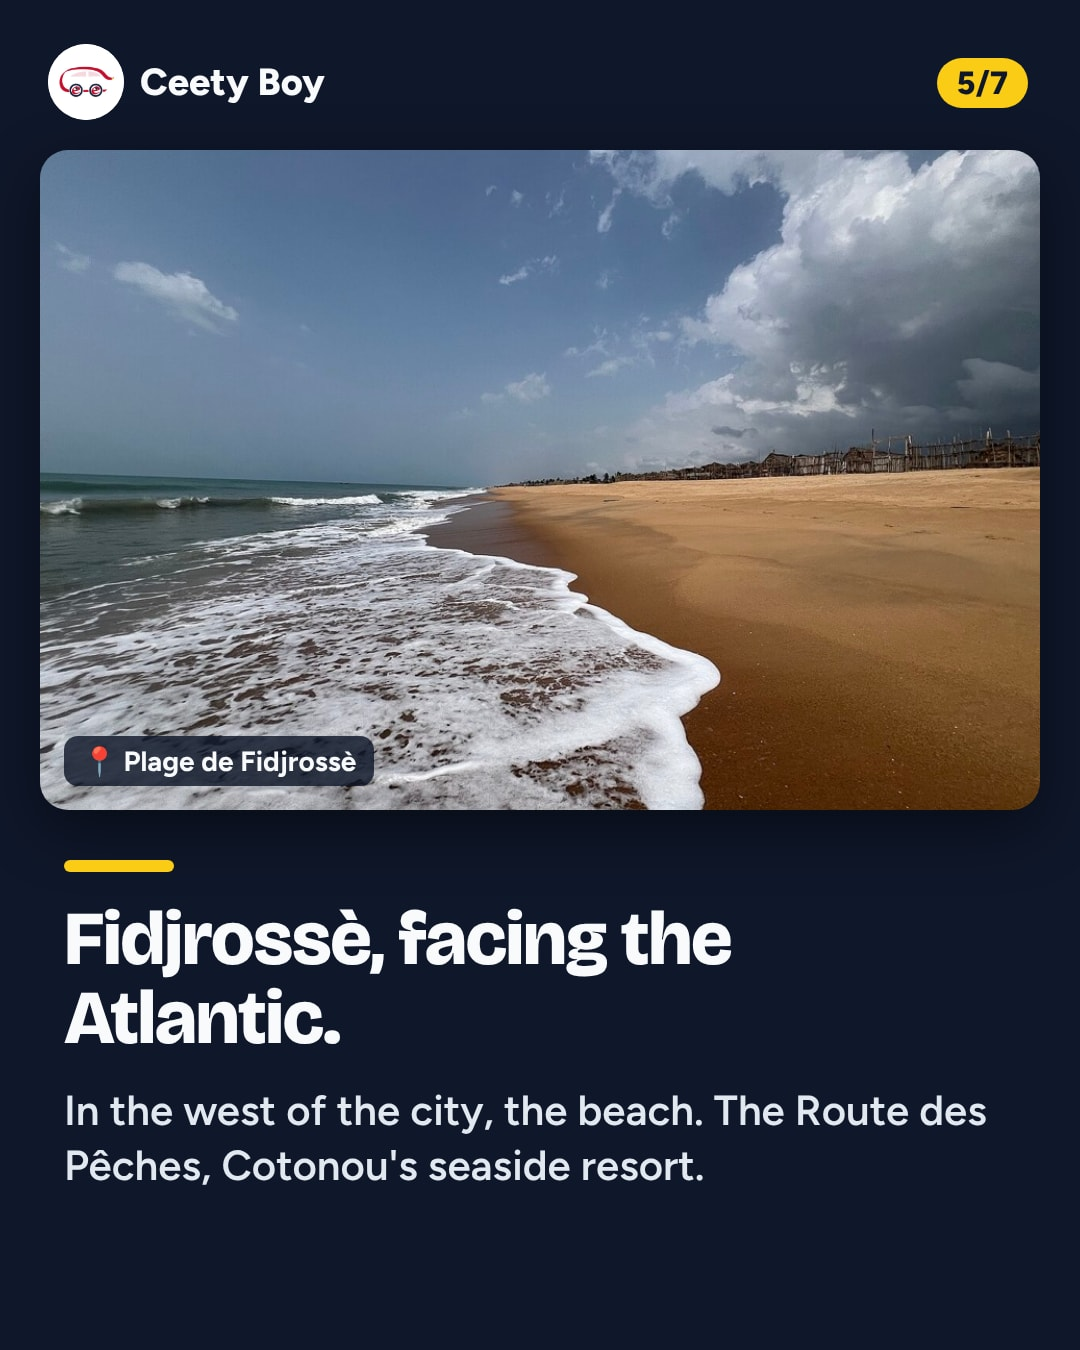
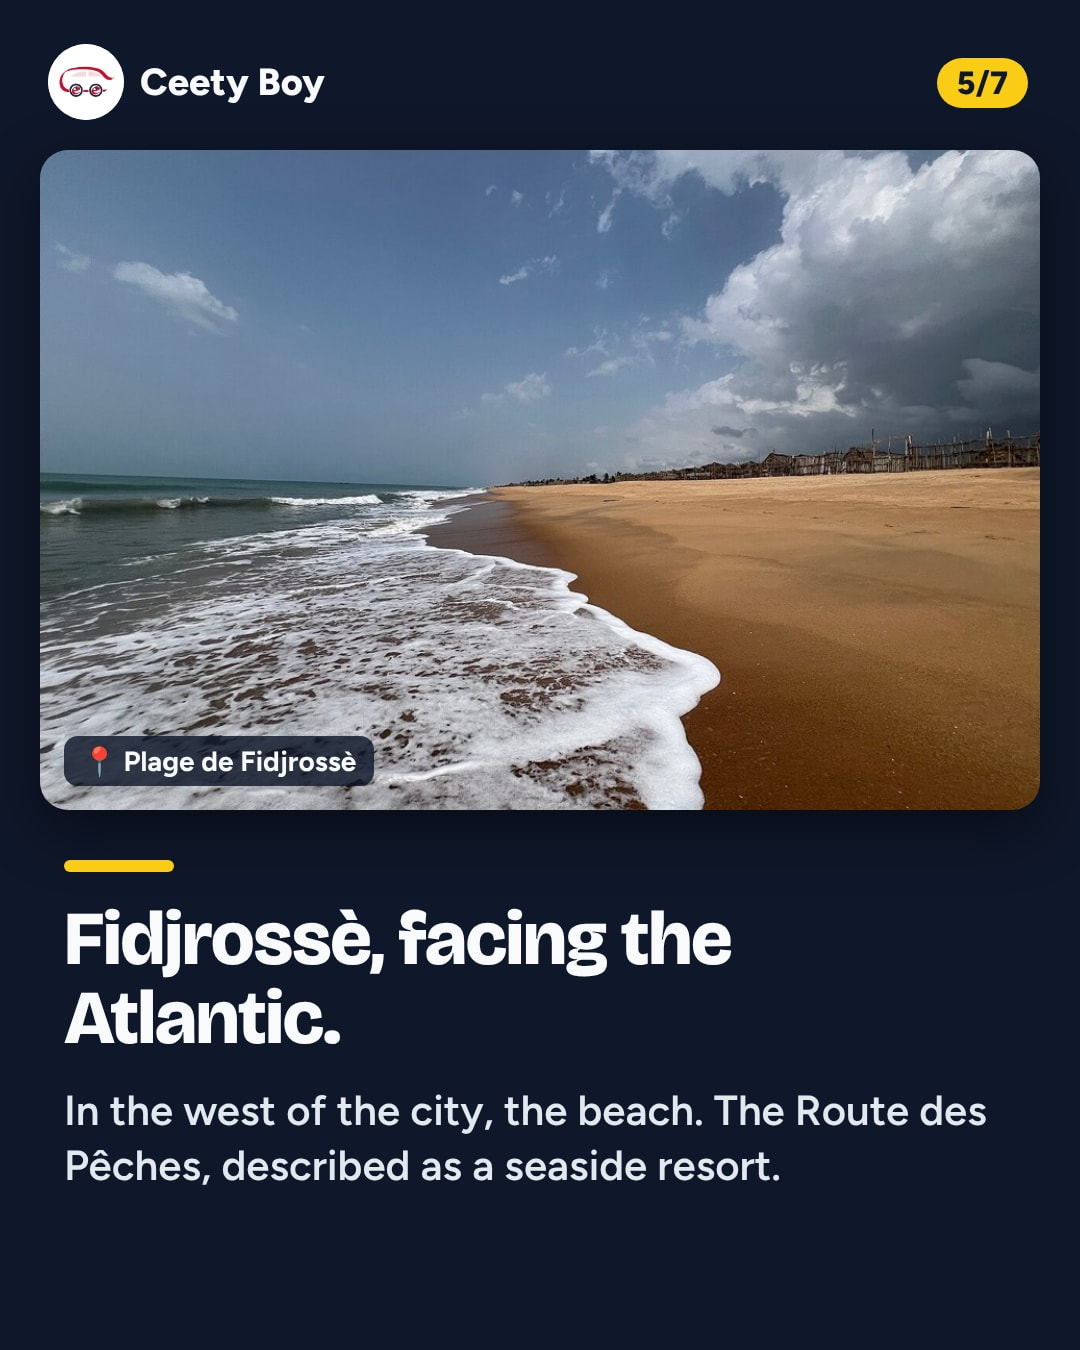
1916: reviewer fixes in POST.md (bronze-clad, épée, hedges, full credit), slides 5+7 re-rendered
Claude-Session: https://claude.ai/code/session_01LYRQA8XoVVktRA2CWq2hwB

Changed region(s): [[0.2139, 0.84, 0.7333, 0.8711]]

diff --git a/campaign/W03/D020/POST.md b/campaign/W03/D020/POST.md
@@ -8,7 +8,7 @@ Not a single-place post (five places + a guide), so it links the article page, n
 ## Caption FR
 Premier séjour à Cotonou ? 🌍
 Ici, presque personne ne donne une adresse avec un numéro de porte. On dit « après l'Étoile Rouge », « derrière Dantokpa », « vers l'Amazone ». Alors on a fait le guide qui parle en repères.
-📍 L'Amazone, 30 mètres de bronze face à l'océan
+📍 L'Amazone, 30 mètres recouverts de bronze, face à l'océan
 📍 Dantokpa, la ville dans la ville
 📍 La cathédrale aux rayures rouges et blanches
 📍 La Fondation Zinsou et l'art contemporain
@@ -24,7 +24,7 @@ Glissez 👉 puis lisez le guide sur ceetyboy.com. Envoyez-le à quelqu'un qui a
 ## Caption EN
 First time in Cotonou? 🌍
 Here, almost nobody gives an address with a door number. People say “after the Étoile Rouge”, “behind Dantokpa”, “near the Amazone”. So we made the guide that speaks in landmarks.
-📍 The Amazon, 30 metres of bronze facing the ocean
+📍 The Amazone, 30 metres clad in bronze, facing the ocean
 📍 Dantokpa, a city within the city
 📍 The red-and-white striped cathedral
 📍 Fondation Zinsou and contemporary art
@@ -48,25 +48,25 @@ EN: Which Cotonou place do you show first to someone who just arrived? 👇 The 
 
 ## Alt text FR / EN
 FR (one per slide):
-1. Le monument de l'Amazone, statue de bronze d'une guerrière avec un fusil et un sabre, sur fond de ciel. Titre : « Premier séjour à Cotonou ? », et « 5 lieux à voir, glissez ».
+1. Le monument de l'Amazone, statue recouverte de bronze d'une guerrière avec un fusil et une épée, sur fond de ciel. Titre : « Premier séjour à Cotonou ? », et « 5 lieux à voir, glissez ».
 2. Le Marché Dantokpa et son quartier vus d'en haut, dans la ville 3D de Ceety Boy. Texte : « Dantokpa, la ville dans la ville. Présenté comme le plus grand marché à ciel ouvert d'Afrique de l'Ouest, au bord de la lagune. »
 3. La façade rayée rouge et blanc de la cathédrale Notre-Dame-de-Miséricorde. Texte : « La cathédrale aux rayures. Près de l'Ancien Pont, ses murs de céramique en bandes rouges et blanches se voient de loin. »
 4. Le bâtiment blanc de la Fondation Zinsou. Texte : « L'art contemporain, ici. Créée en 2005, la première structure béninoise consacrée à l'art contemporain. »
-5. La plage de Fidjrossè, le sable et les vagues de l'océan. Texte : « Fidjrossè, face à l'Atlantique. À l'ouest de la ville, la plage. La route des Pêches, station balnéaire de Cotonou. »
+5. La plage de Fidjrossè, le sable et les vagues de l'océan. Texte : « Fidjrossè, face à l'Atlantique. À l'ouest de la ville, la plage. La route des Pêches, présentée comme station balnéaire. »
 6. Un téléphone affiche l'article « Premier séjour à Cotonou : le guide pour découvrir la ville » sur ceetyboy.com. Texte : « Le guide, trajet compris. Chaque lieu a sa page et son trajet, repère par repère, jusqu'à la porte. »
 7. Texte : « Premier séjour à Cotonou ? Lisez le guide sur ceetyboy.com. L'Amazone, Dantokpa, la cathédrale, Zinsou, Fidjrossè… et le trajet jusqu'à chaque porte. », au-dessus de la statue de l'Amazone, avec le logo Ceety Boy et « Chaque lieu. Chaque trajet. ».
 EN:
-1. The Amazon Monument, a bronze statue of a woman warrior with a rifle and a sword, against the sky. Title: "First time in Cotonou?", and "5 places to see, swipe".
+1. The Amazone monument, a bronze-clad statue of a woman warrior with a rifle and a sword, against the sky. Title: "First time in Cotonou?", and "5 places to see, swipe".
 2. Marché Dantokpa and its neighbourhood from above, in Ceety Boy's 3D city. Text: "Dantokpa, a city within the city. Described as the largest open-air market in West Africa, on the lagoon shore."
 3. The red-and-white striped front of the Cathédrale Notre-Dame de Miséricorde. Text: "The striped cathedral. Near the Ancien Pont, its red-and-white tiled walls stand out from afar."
 4. The white Fondation Zinsou building. Text: "Contemporary art, right here. Created in 2005, the first institution in Benin devoted to contemporary art."
-5. Fidjrossè beach, sand and ocean waves. Text: "Fidjrossè, facing the Atlantic. In the west of the city, the beach. The Route des Pêches, Cotonou's seaside resort."
+5. Fidjrossè beach, sand and ocean waves. Text: "Fidjrossè, facing the Atlantic. In the west of the city, the beach. The Route des Pêches, described as a seaside resort."
 6. A phone shows the article "First time in Cotonou? A visitor's guide to the city" on ceetyboy.com. Text: "The guide, route included. Every place has its page and its route, landmark by landmark, to the door."
-7. Text: "First time in Cotonou? Read the guide on ceetyboy.com. The Amazon, Dantokpa, the cathedral, Zinsou, Fidjrossè… and the route to every door.", above the Amazon statue, with the Ceety Boy logo and "Every place. Every route.".
+7. Text: "First time in Cotonou? Read the guide on ceetyboy.com. The Amazone, Dantokpa, the cathedral, Zinsou, Fidjrossè… and the route to every door.", above the Amazone statue, with the Ceety Boy logo and "Every place. Every route.".
 
 ## Credits line
-FR : Photos : Mister Kolson (CC0), MVN (CC BY 2.0), David Stanley (CC BY 2.0), MyLady333 (CC0), via Wikimedia Commons · Ville 3D : données © contributeurs OpenStreetMap (ODbL)
-EN: Photos: Mister Kolson (CC0), MVN (CC BY 2.0), David Stanley (CC BY 2.0), MyLady333 (CC0), via Wikimedia Commons · 3D city: data © OpenStreetMap contributors (ODbL)
+FR : Photos : Mister Kolson (CC0), MVN (CC BY 2.0), David Stanley from Nanaimo, Canada (CC BY 2.0), MyLady333 (CC0), via Wikimedia Commons · Ville 3D : données © contributeurs OpenStreetMap (ODbL)
+EN: Photos: Mister Kolson (CC0), MVN (CC BY 2.0), David Stanley from Nanaimo, Canada (CC BY 2.0), MyLady333 (CC0), via Wikimedia Commons · 3D city: data © OpenStreetMap contributors (ODbL)
 (No music. No Google frame or Google photo. CC BY photos need the credit: keep this line in the caption's last lines or in the first comment on every platform.)
 
 ## Sources
@@ -74,11 +74,11 @@ EN: Photos: Mister Kolson (CC0), MVN (CC BY 2.0), David Stanley (CC BY 2.0), MyL
 |---|---|
 | Row, date, hook, CTA, pillar, PREP-10 note (cover not Stade de l'Amitié / Ancien Pont / Port) | city-boy-unity `cloud-board`: `cloud/campaign/calendar.md` row D020, task `cloud/tasks/1916-campaign-d020-article.md` |
 | Recipes | `cloud/campaign/recipes/article.md`, `carousel.md`, `_post-pack.md` |
-| Amazon: 30 m, bronze, facing the ocean | city-boy `public/data/landmarks.json` `amazone` (en/fr Wikipedia « Amazon Monument (Benin) » / « Monument Amazone », « Esplanade des Amazones ») |
+| Amazone: 30 m, metal clad in bronze, rifle and sword, facing the ocean | city-boy `public/data/landmarks.json` `amazone` (en/fr Wikipedia « Amazon Monument (Benin) » / « Monument Amazone », « Esplanade des Amazones ») |
 | Dantokpa « described as the largest open-air market in West Africa », on the lagoon, « a city within the city » | `landmarks.json` `dantokpa` (Wikipedia; FAO https://www.fao.org/4/X6984F/x6984f05.htm) |
 | Cathedral near the Ancien Pont, red-and-white ceramic bands | `landmarks.json` `cathedrale` (Wikipedia « Cathédrale Notre-Dame-de-Miséricorde de Cotonou ») |
 | Fondation Zinsou 2005, first in Benin devoted to contemporary art | `landmarks.json` `zinsou` (Wikipedia « Fondation Zinsou ») |
-| Fidjrossè west of the city, faces the Atlantic, Route des Pêches « seaside resort » | `landmarks.json` `fidjrosse` (Wikipedia « Fidjrossè ») |
+| Fidjrossè west of the city, faces the Atlantic, Route des Pêches « described as » a seaside resort | `landmarks.json` `fidjrosse` (Wikipedia « Fidjrossè ») |
 | « presque personne ne donne une adresse avec un numéro de porte » | as in the D013 article: OSM Benin wiki, ADF Magazine 2018, La Nouvelle Tribune 2014 (city-boy `docs/cloud/1759-d013-article/README.md`) |
 | Photos and credits | city-boy `data/landmarks/photos.json`: `public/landmarks/amazone/2.jpg` (commons File:Le_monument_de_l'Amazone.jpg), `cathedrale/1.jpg` (File:Cotonoucathedral.jpg), `zinsou/1.jpg` (File:Fondation_Zinsou_in_Cotonou_2015.jpg), `fidjrosse/2.jpg` (File:La_plage_Fidjrossè_à_Cotonou_au_Bénin.jpg); Dantokpa 3D still: seo/engine `data/seo/articles/img/dantokpa.jpg` (D006, the game's own city) |
 | Slide 6 | the article page, local build of `cloud/1916-d020-article` at 390 px (25 Nov) |
